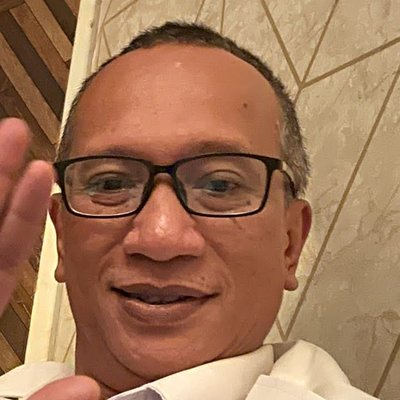
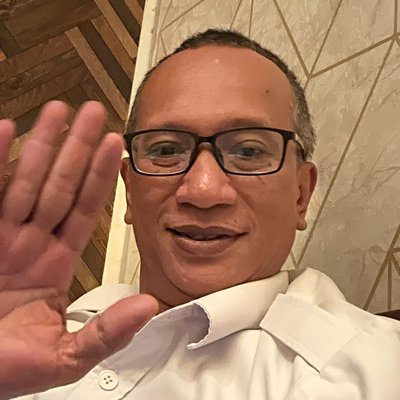
Recenter and zoom out director photo
Claude-Session: https://claude.ai/code/session_01TyL73vKiBdnTQJNyNDJywA

diff --git a/site/index.html b/site/index.html
@@ -491,7 +491,7 @@ footer .brand small{color:var(--teal)}
 <section style="padding-top:20px">
   <div class="wrap">
     <div class="dir rv">
-      <div class="avatar"><img src="img/direktur.jpg" alt="Danan Satria Janti, Direktur PT Yasa Global Internasional" width="200" height="200" loading="lazy"></div>
+      <div class="avatar"><img src="img/direktur.jpg?v=2" alt="Danan Satria Janti, Direktur PT Yasa Global Internasional" width="200" height="200" loading="lazy"></div>
       <div>
         <span class="eyebrow">Sambutan Direktur</span>
         <blockquote style="margin-top:48px">Pasokan yang tepat mutu, tepat jumlah, dan tepat waktu adalah fondasi setiap usaha pangan.</blockquote>
